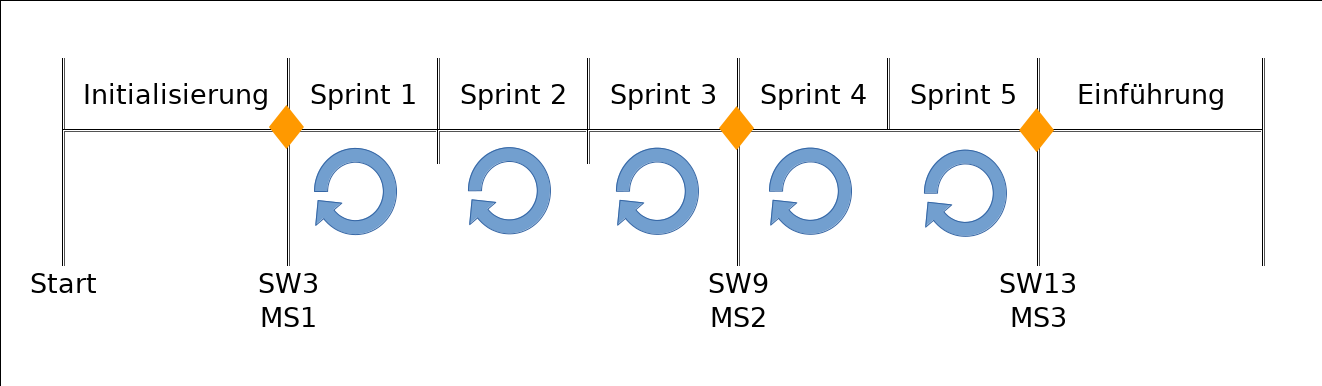
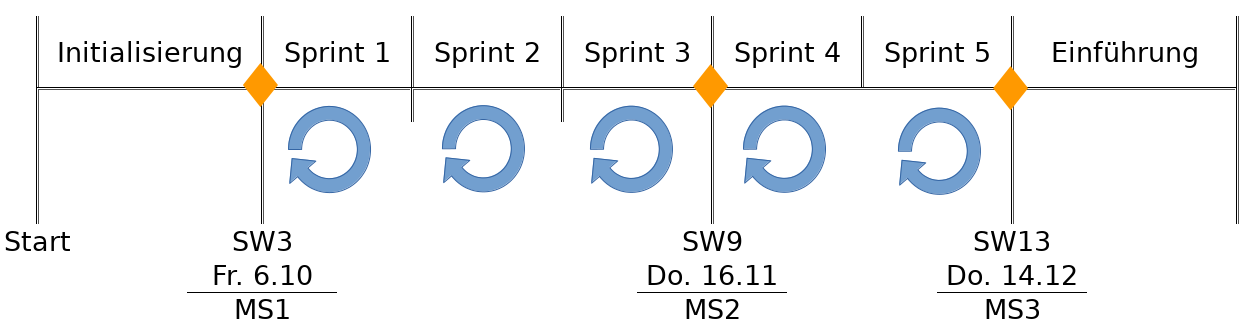
updated 'Rahmenplan' with new image and further dates

diff --git a/docs/pmp/projekt_rahmenplan.tex b/docs/pmp/projekt_rahmenplan.tex
@@ -1,28 +1,38 @@
 %!TEX root = PMP_ClockPendulumAnalyzer.tex
 \section{Projektrahmenplan}
-    In diesem Kapitel werden die Meilensteine und Eckdaten wie Start- und Endzeitpunkt des Projekts festgehalten.
+    In diesem Kapitel werden die Meilensteine und Eckdaten wie Start- und Endzeitpunkt des Projekts festgehalten. In der Abbildung \ref{fig:rahmenplan} ist die Übersicht auf die geplanten Sprints und Meilensteine (MS). Die Meilensteine sowie Abgabetermine sind weiter unten in der Tabelle \ref{tab:meilensteine} ausführlicher beschrieben.
     \begin{figure}[H]
         \centering
         \includegraphics[width=\textwidth]{rahmenplan.png}
         \caption{Rahmenplan mit Phasen, Meilensteine und Sprints}
+        \label{fig:rahmenplan}
     \end{figure}
-    \begin{tabularx}{\textwidth}{lll}%TODO Endtermine (Abgabe) ergänzen
-        \textbf{MS1:} & Zeitpunkt: & Freitag 6.10.\\
-        & Artefakte: & \tabitem PMP\\
-        & & \tabitem Entwurf des Grobkonzepts\\
-        & Ergebnisse: & \tabitem definierte Vorgehensart\\
-        & & \tabitem Rahmenplanung\\
-        & & \tabitem Vision (Scope, Ziele etc) im Grobkonzept\\
-        \textbf{MS2:} & Zeitpunkt: & Donnerstag 16.11.2017\\
-        & Artefakte & \tabitem Prototyp 1\\
-        & Ergebnisse: & \tabitem lauffähiger 1. Prototyp\\
-        & & \tabitem 80\% der Sys Spec\\
-        \textbf{MS3:} & Zeitpunkt: & Donnerstag 14.12.2017\\
-        & Artefakte & \tabitem PMP \\
-        & & \tabitem SysSpec \\
-        & & \tabitem Arbeitsjournal \\
-        & & \tabitem Prototyp 2\\
-        & Ergebnisse: & \tabitem lauffähiger 2. Prototyp\\
-        & & \tabitem fertige System Spezifikation (Projektreport)\\
-        & & \tabitem fertiger PMP\\
-    \end{tabularx}
+    \begin{table}[h]
+        \begin{tabularx}{\textwidth}{lll}
+            \textbf{MS1:} & Zeitpunkt: & Freitag 6.10.\\
+            & Artefakte: & \tabitem Projekt Management Plan (PMP)\\
+            & & \tabitem Entwurf des Grobkonzepts\\
+            & Ergebnisse: & \tabitem definierte Vorgehensart\\
+            & & \tabitem Rahmenplanung\\
+            & & \tabitem Vision (Scope, Ziele etc) im Grobkonzept\\
+            \textbf{MS2:} & Zeitpunkt: & Donnerstag 16.11.2017\\
+            & Artefakte & \tabitem Prototyp 1\\
+            & Ergebnisse: & \tabitem lauffähiger 1. Prototyp\\
+            & & \tabitem 80\% der Sys Spec\\
+            \textbf{MS3:} & Zeitpunkt: & Donnerstag 14.12.2017\\
+            & Artefakte & \tabitem PMP \\
+            & & \tabitem SysSpec \\
+            & & \tabitem Arbeitsjournal \\
+            & & \tabitem Prototyp 2\\
+            & Ergebnisse: & \tabitem lauffähiger 2. Prototyp\\
+            & & \tabitem fertige System Spezifikation (Projektreport)\\
+            & & \tabitem fertiger PMP\\
+            \textbf{weitere Termine:} & & \\
+            & Abgabe Dokumentation: & 05.01.2018\\
+            & Abgabe Projekt: & 12.01.2018\\
+            & Präsentation Projekt: & 12.01.2018\\
+        \end{tabularx}
+        \caption{Meilensteine und Termine}
+        \label{tab:meilensteine}
+    \end{table}
+    
